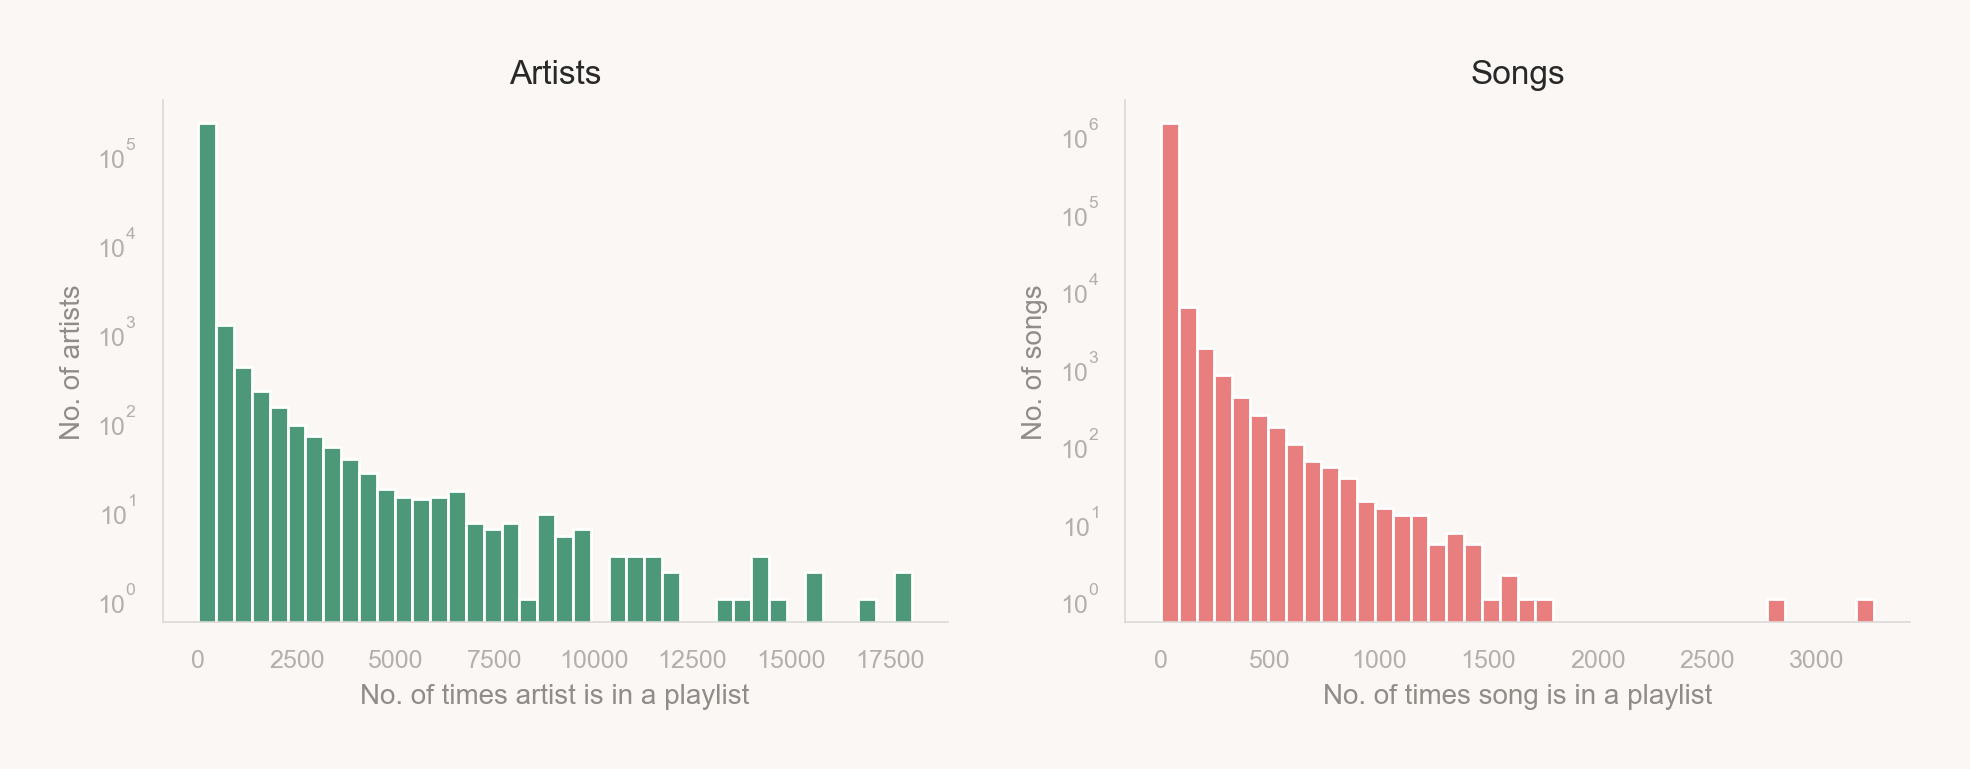
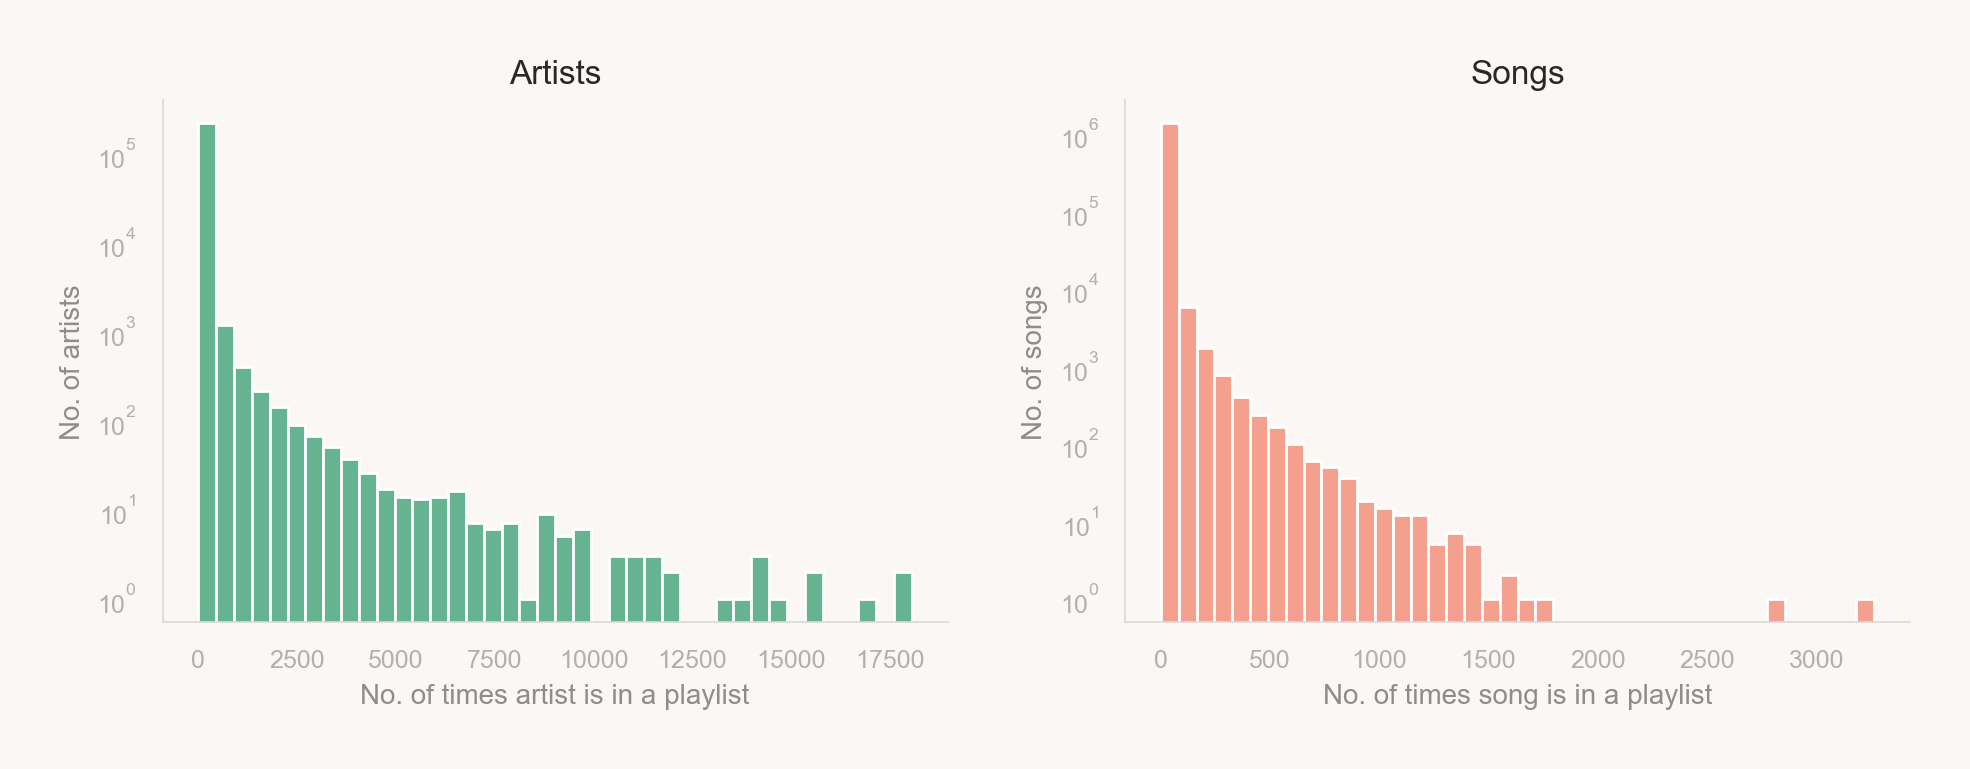
Update palette

Changed region(s): [[0.0929, 0.156, 0.4645, 0.8114], [0.5883, 0.156, 0.8051, 0.8114], [0.898, 0.7802, 0.9599, 0.8114]]

diff --git a/src/utils/styling.py b/src/utils/styling.py
@@ -21,10 +21,10 @@ def get_palette():
         - text_darker: The color code for darker text.
         - background: The color code for the background.
     """
-    green = '#4c9878'
-    orange = '#e87e7e'
-    purple = '#b170d2'
-    blue = '#366eff'
+    green = '#66b392'
+    orange = '#f4a08f'
+    purple = '#c696de'
+    blue = '#739fd8'
     palette = [green, orange, purple, blue]
 
     text_darker = '#282828'
